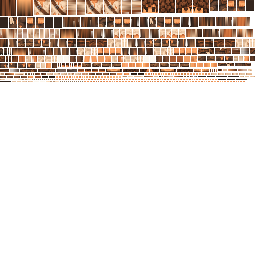
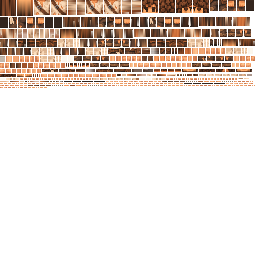
Brazo y mano rehechos con la hoja del brazo sin ropa (guia_24): hombro ancho con escalones, codo, antebrazo que se afina, muñeca, palma gruesa y dedos con sus falanges; la piel del brazo sale de esa hoja; brazo de primera persona algo más grande
Claude-Session: https://claude.ai/code/session_01SUfm666uxCB4apPjWCK6VE

Changed region(s): [[0.0, 0.0938, 1.0, 0.3438]]

diff --git a/tools/modelo_desde_guia.py b/tools/modelo_desde_guia.py
@@ -34,6 +34,12 @@ BACK_X = 1081    # ... en la de espaldas (la derecha del personaje, a la derecha
 SIDE_X = 689     # ... en la de lado (muestra el lado derecho; delante = a la derecha de la imagen)
 K = 2            # casillas de textura por píxel del modelo
 
+# Hoja del brazo sin ropa (docs/estilo/guia_24_brazo_vistas.webp): proporciones del brazo y la mano,
+# y la piel de sus cajas. Vistas de frente, espalda, lado de fuera y de dentro, el brazo colgando.
+ARM_SHEET = os.path.join(ROOT, "docs", "estilo", "guia_24_brazo_vistas.webp")
+ARM = {"S": 41.5, "tip_y": 560, "tip": 9.4, "axis": 5.25,  # punta de los dedos: y = 560 en la hoja
+       "front": 340, "back": 618, "outer": 912, "inner": 1195}
+
 SKIN = "skin"      # filtro: piel (la mano no debe coger las pulseras de encima)
 SHIRT = "shirt"    # filtro: casillas que no son camisa se cambian por la camisa más cercana
 BROWN = "brown"    # filtro: cuero / tela marrón
@@ -54,24 +60,26 @@ BONES = [
     ("leg_right/lower", "lower", "leg_right", (2.0, 8.0, 0)),   # rodilla
     ("leg_right/lower/foot", "foot", "leg_right/lower", (2.0, 3.3, 0)),  # tobillo
     ("arm_right", "arm_right", None, (5.25, 21.2, 0)),          # hombro
-    ("arm_right/lower", "lower", "arm_right", (5.25, 16.7, 0)),  # codo
-    ("arm_right/lower/wrist", "wrist", "arm_right/lower", (5.25, 13.4, 0)),  # muñeca
+    ("arm_right/lower", "lower", "arm_right", (5.25, 17.1, 0)),  # codo
+    ("arm_right/lower/wrist", "wrist", "arm_right/lower", (5.25, 13.35, 0)),  # muñeca
     # Dónde se agarra un mango: dentro del puño cerrado, bajo la palma.
-    ("arm_right/lower/grip", "grip", "arm_right/lower", (5.0, 11.0, 0.0)),
+    ("arm_right/lower/grip", "grip", "arm_right/lower", (5.05, 10.35, 0.0)),
 ]
 
 # Mano: palma y dedos con sus falanges. Los dedos van uno detrás de otro de delante (índice, -Z) a
 # atrás (meñique), pegados al lado de la palma (-X en la mano derecha, hacia el cuerpo), y se
 # doblan hacia ese lado. Cada falange es un hueso: nudillo, articulación del medio y la de la punta.
-PALM_BOTTOM = 11.7
-FINGER_X = (4.3, 5.45)                      # grosor de los dedos
+# Medidas de la hoja del brazo (guia_24): la palma es más ancha (2,4) que gruesa (1,5) y los dedos,
+# más finos que la palma, miden 1,6 en total.
+PALM_BOTTOM = 11.0
+FINGER_X = (4.5, 5.9)                       # grosor de los dedos
 FINGERS = [  # (z0, z1, largos de las 3 falanges)
-    (-1.45, -0.75, (0.75, 0.55, 0.45)),     # índice
-    (-0.72, -0.02, (0.8, 0.6, 0.45)),       # corazón
-    (0.01, 0.71, (0.75, 0.55, 0.45)),       # anular
-    (0.74, 1.4, (0.6, 0.45, 0.4)),          # meñique
+    (-1.2, -0.63, (0.65, 0.5, 0.45)),       # índice
+    (-0.59, -0.02, (0.7, 0.55, 0.45)),      # corazón
+    (0.02, 0.59, (0.65, 0.5, 0.45)),        # anular
+    (0.63, 1.15, (0.55, 0.42, 0.38)),       # meñique
 ]
-THUMB = {"base": (3.95, 12.9, -1.15), "size": (0.8, 0.8), "lengths": (0.85, 0.65)}
+THUMB = {"base": (4.35, 12.55, -1.25), "size": (0.8, 0.8), "lengths": (0.9, 0.7)}
 
 
 def hand_bones_and_boxes():
@@ -84,7 +92,7 @@ def hand_bones_and_boxes():
         for j, length in enumerate(lengths):
             bid = "arm_right/lower/wrist/f%d%s" % (f, "abc"[j]) if j == 0 else parent + "/f%d%s" % (f, "abc"[j])
             bones.append((bid, "f%d%s" % (f, "abc"[j]), parent, (cx, y, (z0 + z1) / 2)))
-            boxes.append(box(bid, (FINGER_X[0], y - length - 0.05, z0), (FINGER_X[1], y + 0.05, z1), name="dedo", filter=SKIN))
+            boxes.append(box(bid, (FINGER_X[0], y - length - 0.05, z0), (FINGER_X[1], y + 0.05, z1), name="dedo", filter=SKIN, sheet="arm"))
             parent = bid
             y -= length
     # Pulgar: sale del lado de delante de la palma, hacia abajo.
@@ -95,7 +103,7 @@ def hand_bones_and_boxes():
         bid = parent + "/t" + "ab"[j]
         bones.append((bid, "t" + "ab"[j], parent, (bx, by, bz)))
         boxes.append(box(bid, (bx - w / 2, by - length - 0.05, bz - d / 2), (bx + w / 2, by + 0.05, bz + d / 2),
-                         name="pulgar", sample_from=None, filter=SKIN))
+                         name="pulgar", sample_from=None, filter=SKIN, sheet="arm"))
         parent = bid
         by -= length
     return bones, boxes
@@ -118,20 +126,28 @@ def boxes_right_side():
     b.append(box("leg_right/lower/foot", (0.1, 0.5, -2.9), (4.0, 4.4, 2.1), name="bota"))
     b.append(box("leg_right/lower/foot", (0.0, 0.0, -3.2), (4.1, 0.55, 2.3), name="suela",
                  color=(52, 38, 30)))
-    # Brazo: hombro redondeado (escalones), brazo, manga con volumen rota en diagonal.
-    b.append(box("arm_right", (4.0, 16.6, -1.4), (6.5, 21.3, 1.4)))
-    b.append(box("arm_right", (4.25, 21.3, -1.15), (6.25, 22.0, 1.15)))
-    # Manga: tres tiras de delante a atrás, cada una más larga (corte en diagonal), y la hombrera.
-    for k, (z0, z1, bottom) in enumerate([(-1.7, -0.55, 18.6), (-0.55, 0.55, 18.0), (0.55, 1.7, 17.4)]):
-        b.append(box("arm_right", (3.7, bottom, z0), (6.8, 21.6, z1), name="manga", filter=SHIRT))
-    b.append(box("arm_right", (3.95, 21.6, -1.45), (6.55, 22.3, 1.45), name="manga", filter=SHIRT))
-    # Antebrazo, dos pulseras de cuero con relieve (y un remache delante), mano grande y pulgar.
-    b.append(box("arm_right/lower", (4.1, 13.3, -1.15), (6.4, 16.9, 1.15)))
-    for y0 in (13.5, 14.6):
-        b.append(box("arm_right/lower", (3.8, y0, -1.45), (6.7, y0 + 0.8, 1.45), name="pulsera", filter=BROWN))
-        b.append(box("arm_right/lower", (4.95, y0 + 0.2, -1.7), (5.55, y0 + 0.6, -1.45), name="remache",
+    # Brazo (medidas de guia_24): hombro ancho redondeado con escalones, brazo, codo más estrecho,
+    # antebrazo que se afina hacia la muñeca. La piel sale de la hoja del brazo.
+    arm = {"sheet": "arm", "filter": SKIN}
+    b.append(box("arm_right", (4.4, 21.75, -0.9), (6.1, 22.3, 0.9), name="hombro", **arm))
+    b.append(box("arm_right", (3.75, 20.1, -1.5), (6.75, 21.6, 1.5), name="hombro", **arm))
+    b.append(box("arm_right", (4.0, 19.7, -1.25), (6.5, 21.95, 1.25), name="hombro", **arm))
+    b.append(box("arm_right", (4.15, 17.3, -1.0), (6.35, 20.0, 1.0), name="brazo", **arm))
+    b.append(box("arm_right/lower", (4.3, 16.8, -0.9), (6.2, 17.5, 0.9), name="codo", **arm))
+    b.append(box("arm_right/lower", (4.2, 13.8, -0.95), (6.3, 16.9, 0.95), name="antebrazo", **arm))
+    b.append(box("arm_right/lower", (4.35, 13.2, -0.85), (6.15, 13.9, 0.85), name="muneca", **arm))
+    # Manga con volumen: tres tiras de delante a atrás, cada una más larga (corte en diagonal), y
+    # la hombrera por encima.
+    for z0, z1, bottom in [(-1.75, -0.58, 18.7), (-0.58, 0.58, 18.1), (0.58, 1.75, 17.5)]:
+        b.append(box("arm_right", (3.5, bottom, z0), (7.0, 21.75, z1), name="manga", filter=SHIRT))
+    b.append(box("arm_right", (3.9, 21.7, -1.45), (6.6, 22.45, 1.45), name="manga", filter=SHIRT))
+    # Dos pulseras de cuero con relieve (y un remache delante).
+    for y0 in (13.5, 14.5):
+        b.append(box("arm_right/lower", (3.95, y0, -1.2), (6.55, y0 + 0.7, 1.2), name="pulsera", filter=BROWN))
+        b.append(box("arm_right/lower", (4.95, y0 + 0.15, -1.45), (5.55, y0 + 0.55, -1.2), name="remache",
                      color=(150, 120, 90)))
-    b.append(box("arm_right/lower/wrist", (3.8, PALM_BOTTOM, -1.5), (6.7, 13.5, 1.5), name="palma", filter=SKIN))
+    # Mano: palma más ancha que gruesa; dedos y pulgar en HAND_BOXES.
+    b.append(box("arm_right/lower/wrist", (4.25, PALM_BOTTOM, -1.25), (6.25, 13.45, 1.25), name="palma", **arm))
     b += HAND_BOXES
     return b
 
@@ -253,7 +269,49 @@ def ncells(length):
     return max(1, int(round(length * K)))
 
 
+def arm_face_pixels(bx, face):
+    """Una cara de una caja del brazo, de la hoja del brazo (guia_24): x respecto al eje del brazo."""
+    sheet = _arm_sheet()
+    x0, y0, z0 = bx["from"]
+    x1, y1, z1 = bx["to"]
+    if x0 + x1 < 0:  # brazo izquierdo: se mira como el derecho (la piel es simétrica)
+        x0, x1 = -x1, -x0
+        face = {"right": "left", "left": "right"}.get(face, face)
+    a = ARM
+    to_y = lambda y: a["tip_y"] - (y - a["tip"]) * a["S"]
+    ya, yb = to_y(y1), to_y(y0)
+    if face == "front":
+        xa, xb = a["front"] - (x1 - a["axis"]) * a["S"], a["front"] - (x0 - a["axis"]) * a["S"]
+    elif face == "back":
+        xa, xb = a["back"] + (x0 - a["axis"]) * a["S"], a["back"] + (x1 - a["axis"]) * a["S"]
+    elif face == "right":
+        xa, xb = a["outer"] - z1 * a["S"], a["outer"] - z0 * a["S"]
+    elif face == "left":
+        xa, xb = a["inner"] + z0 * a["S"], a["inner"] + z1 * a["S"]
+    else:
+        y = y1 if face == "top" else y0
+        yy = to_y(y) + (a["S"] * 0.3 if face == "top" else -a["S"] * 0.3)
+        cols, rows = ncells(x1 - x0), ncells(z1 - z0)
+        row = sample_strip(sheet, a["front"] - (x1 - a["axis"]) * a["S"], a["front"] - (x0 - a["axis"]) * a["S"],
+                           yy - 3, yy + 3, cols, 1)[0]
+        return fix(np.repeat(row[None], rows, axis=0), is_skin)
+    cols = ncells((x1 - x0) if face in ("front", "back") else (z1 - z0))
+    return fix(sample_strip(sheet, xa, xb, ya, yb, cols, ncells(y1 - y0)), is_skin)
+
+
+_ARM_SHEET = None
+
+
+def _arm_sheet():
+    global _ARM_SHEET
+    if _ARM_SHEET is None:
+        _ARM_SHEET = np.asarray(Image.open(ARM_SHEET).convert("RGB")).astype(float)
+    return _ARM_SHEET
+
+
 def face_pixels(sheet, bx, face):
+    if bx.get("sheet") == "arm":
+        return arm_face_pixels(bx, face)
     x0, y0, z0 = bx["from"]
     x1, y1, z1 = bx["to"]
     if bx.get("sample_from"):  # zona propia en la vista de frente/lado (x o z, y): orejas, trapo
